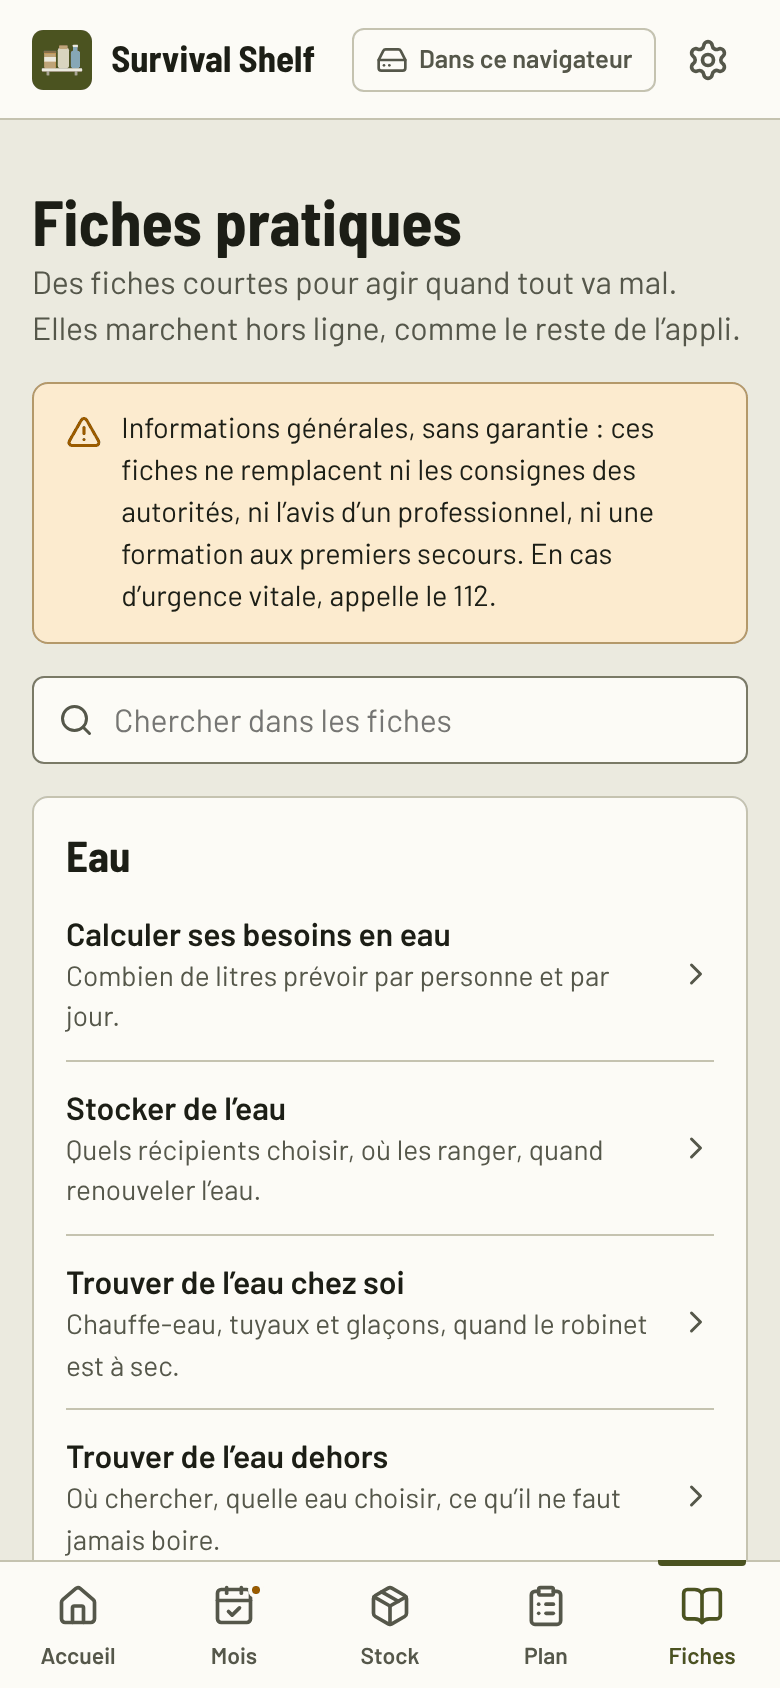
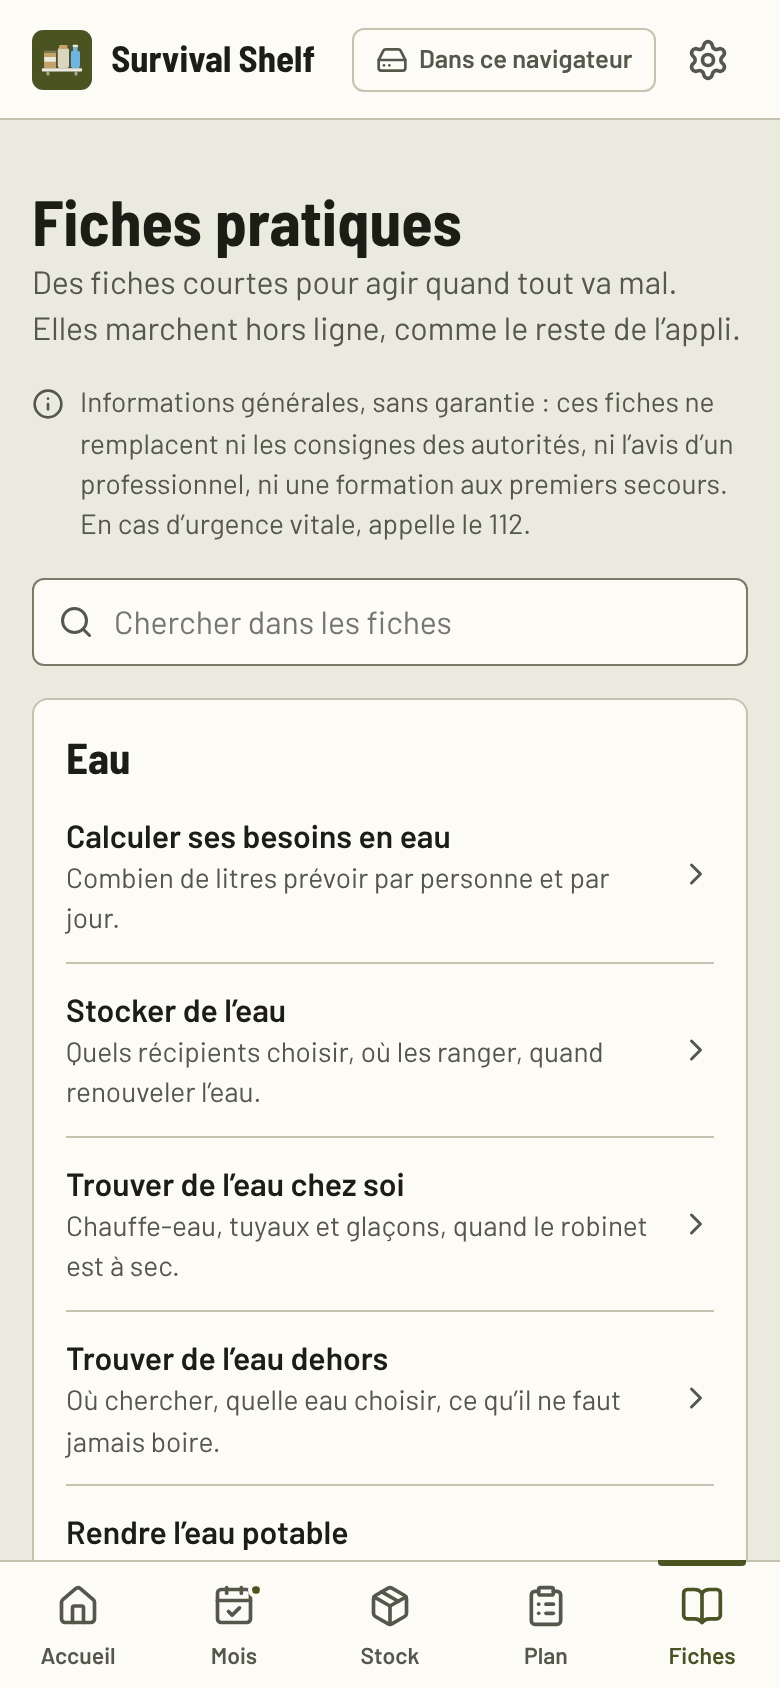
Lighten the Guides page: quieter notice, no "without the app" card
The warning at the top of the Guides page is now small grey text with an info
icon instead of an orange box, and the card that pointed to the guides folder
on GitHub is gone.

Claude-Session: https://claude.ai/code/session_01VbHUrZf3pw8DeQT248njbz

diff --git a/app/src/views/Guides.svelte b/app/src/views/Guides.svelte
@@ -1,17 +1,14 @@
 <script lang="ts">
   import ArrowLeft from '@lucide/svelte/icons/arrow-left';
   import ChevronRight from '@lucide/svelte/icons/chevron-right';
-  import ExternalLink from '@lucide/svelte/icons/external-link';
+  import Info from '@lucide/svelte/icons/info';
   import Printer from '@lucide/svelte/icons/printer';
   import Search from '@lucide/svelte/icons/search';
-  import TriangleAlert from '@lucide/svelte/icons/triangle-alert';
   import { loadGuides } from 'virtual:guides';
   import { guideLang, searchGuides, type Guide, type GuideLang, type GuideLibrary, type GuideTheme } from '../lib/guides/library';
   import { i18n, t, tn } from '../lib/i18n/index.svelte';
   import { router } from '../lib/ui/state.svelte';
 
-  /** The same guides as plain Markdown files, for whoever wants them without the app. */
-  const FILES = 'https://github.com/sylvaindeloux/survival-shelf/tree/master/guides';
 
   // The guides are the Markdown files of the repository's guides/ folder, rendered at build time
   // and loaded one language at a time.
@@ -89,7 +86,7 @@
       <p class="muted">{t('guides.intro')}</p>
     </header>
 
-    <p class="notice"><TriangleAlert size={18} /><span>{t('guides.notice')}</span></p>
+    <p class="notice muted small"><Info size={16} /><span>{t('guides.notice')}</span></p>
 
     <label class="search">
       <span class="visually-hidden">{t('guides.search')}</span>
@@ -123,14 +120,6 @@
       {/each}
       <p class="muted small">{t('guides.more')}</p>
     {/if}
-
-    <section class="card stack">
-      <h2>{t('guides.offlineTitle')}</h2>
-      <p class="small">{t('guides.offlineText')}</p>
-      <p>
-        <a class="btn" href={FILES} target="_blank" rel="noopener"><ExternalLink size={18} />{t('guides.files')}</a>
-      </p>
-    </section>
   </div>
 {/if}
 
@@ -139,20 +128,15 @@
     margin-bottom: 0.25rem;
   }
 
+  /* The warning stays in view without shouting: small grey text, no frame. */
   .notice {
     display: flex;
-    gap: 0.6rem;
-    padding: 0.75rem 1rem;
-    border: 1.5px solid color-mix(in srgb, var(--warn) 40%, var(--border));
-    border-radius: var(--radius);
-    background: var(--warn-soft);
-    font-size: 0.9rem;
+    gap: 0.5rem;
   }
 
   .notice :global(svg) {
     flex: none;
     margin-top: 0.15rem;
-    color: var(--warn);
   }
 
   .search {

diff --git a/app/src/lib/i18n/fr.ts b/app/src/lib/i18n/fr.ts
@@ -382,10 +382,6 @@ export const fr: Record<keyof typeof en, string> = {
   'guides.results_other': '{count} fiches pour « {query} »',
   'guides.noResult': 'Aucune fiche pour « {query} ». Essaie un autre mot.',
   'guides.more': 'D’autres thèmes sont en cours d’écriture.',
-  'guides.offlineTitle': 'Garde-les sans l’appli',
-  'guides.offlineText':
-    'Les fiches sont aussi de simples fichiers texte, dans le dossier « guides » du projet : copie-les sur un téléphone ou une clé USB, ou imprime celles qui comptent pour toi.',
-  'guides.files': 'Voir les fichiers sur GitHub',
   'guides.all': 'Toutes les fiches',
   'guides.print': 'Imprimer',
   'guides.notFound': 'Cette fiche n’existe pas, ou plus.',

diff --git a/app/src/lib/i18n/en.ts b/app/src/lib/i18n/en.ts
@@ -377,10 +377,6 @@ export const en = {
   'guides.results_other': '{count} guides for “{query}”',
   'guides.noResult': 'No guide for “{query}”. Try another word.',
   'guides.more': 'More themes are being written.',
-  'guides.offlineTitle': 'Keep them without the app',
-  'guides.offlineText':
-    'The guides are also plain text files, in the “guides” folder of the project: copy them to a phone or a USB stick, or print the ones that matter to you.',
-  'guides.files': 'See the files on GitHub',
   'guides.all': 'All guides',
   'guides.print': 'Print',
   'guides.notFound': 'This guide does not exist, or not anymore.',
